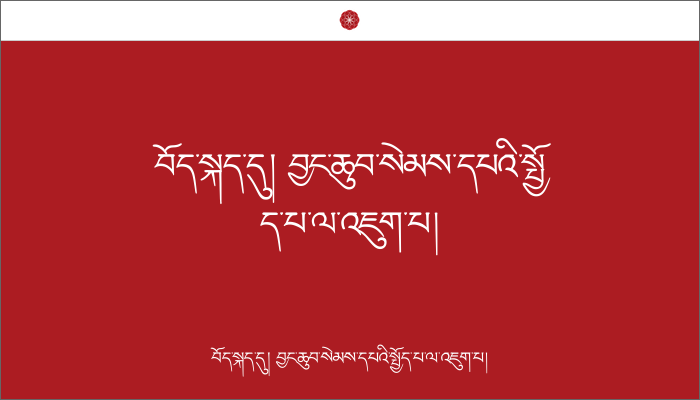
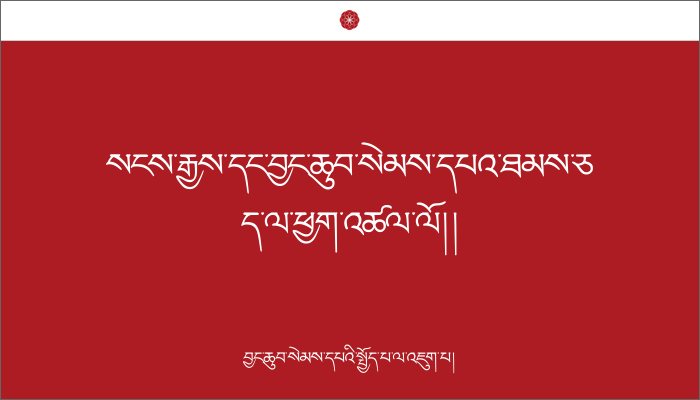
removed sub-process to test

Changed region(s): [[0.15, 0.33, 0.84, 0.63], [0.3, 0.87, 0.69, 0.93]]

diff --git a/pecha_api/share/share_service.py b/pecha_api/share/share_service.py
@@ -10,6 +10,7 @@ from starlette import status
 from starlette.responses import StreamingResponse
 from .share_utils import ShareUtils
 from ..texts.texts_utils import TextUtils
+from .pecha_text_image import create_synthetic_data
 
 async def generate_image(segment_id: str, language: str):
     if segment_id is not None and segment_id != "":
@@ -31,12 +32,15 @@ async def generate_image(segment_id: str, language: str):
         env["REFERENCE_TEXT"] = reference_text
         env["LANGUAGE"] = language
 
-        subprocess.run(
-            # add /usr/local/bin/python3 if using MAC_OS
-            ["/usr/bin/python3", "pecha_api/share/pecha_text_image.py"],
-            env=env,
-            check=True
-        )
+        create_synthetic_data(segment_text, reference_text, language, language, logo_path="pecha_api/share/static/img/pecha-logo.png")
+
+    
+        # subprocess.run(
+        #     # add /usr/local/bin/python3 if using MAC_OS
+        #     ["/usr/bin/python3", "pecha_api/share/pecha_text_image.py"],
+        #     env=env,
+        #     check=True
+        # )
         
         image_path = "pecha_api/share/static/img/output.png"
         with open(image_path, "rb") as image_file:

diff --git a/pecha_api/share/pecha_text_image.py b/pecha_api/share/pecha_text_image.py
@@ -161,8 +161,4 @@ if __name__ == "__main__":
     ref_str = os.environ.get("REFERENCE_TEXT")
     version_lang = os.environ.get("LANGUAGE")
     lang = version_lang
-    text = "བོད་སྐད་དུ། བྱང་ཆུབ་སེམས་དཔའི་སྤྱོད་པ་ལ་འཇུག་པ།"
-    ref_str = "བོད་སྐད་དུ། བྱང་ཆུབ་སེམས་དཔའི་སྤྱོད་པ་ལ་འཇུག་པ།"
-    version_lang = "bo"
-    lang = "bo"
     create_synthetic_data(text, ref_str, lang, version_lang, logo_path="pecha_api/share/static/img/pecha-logo.png")
